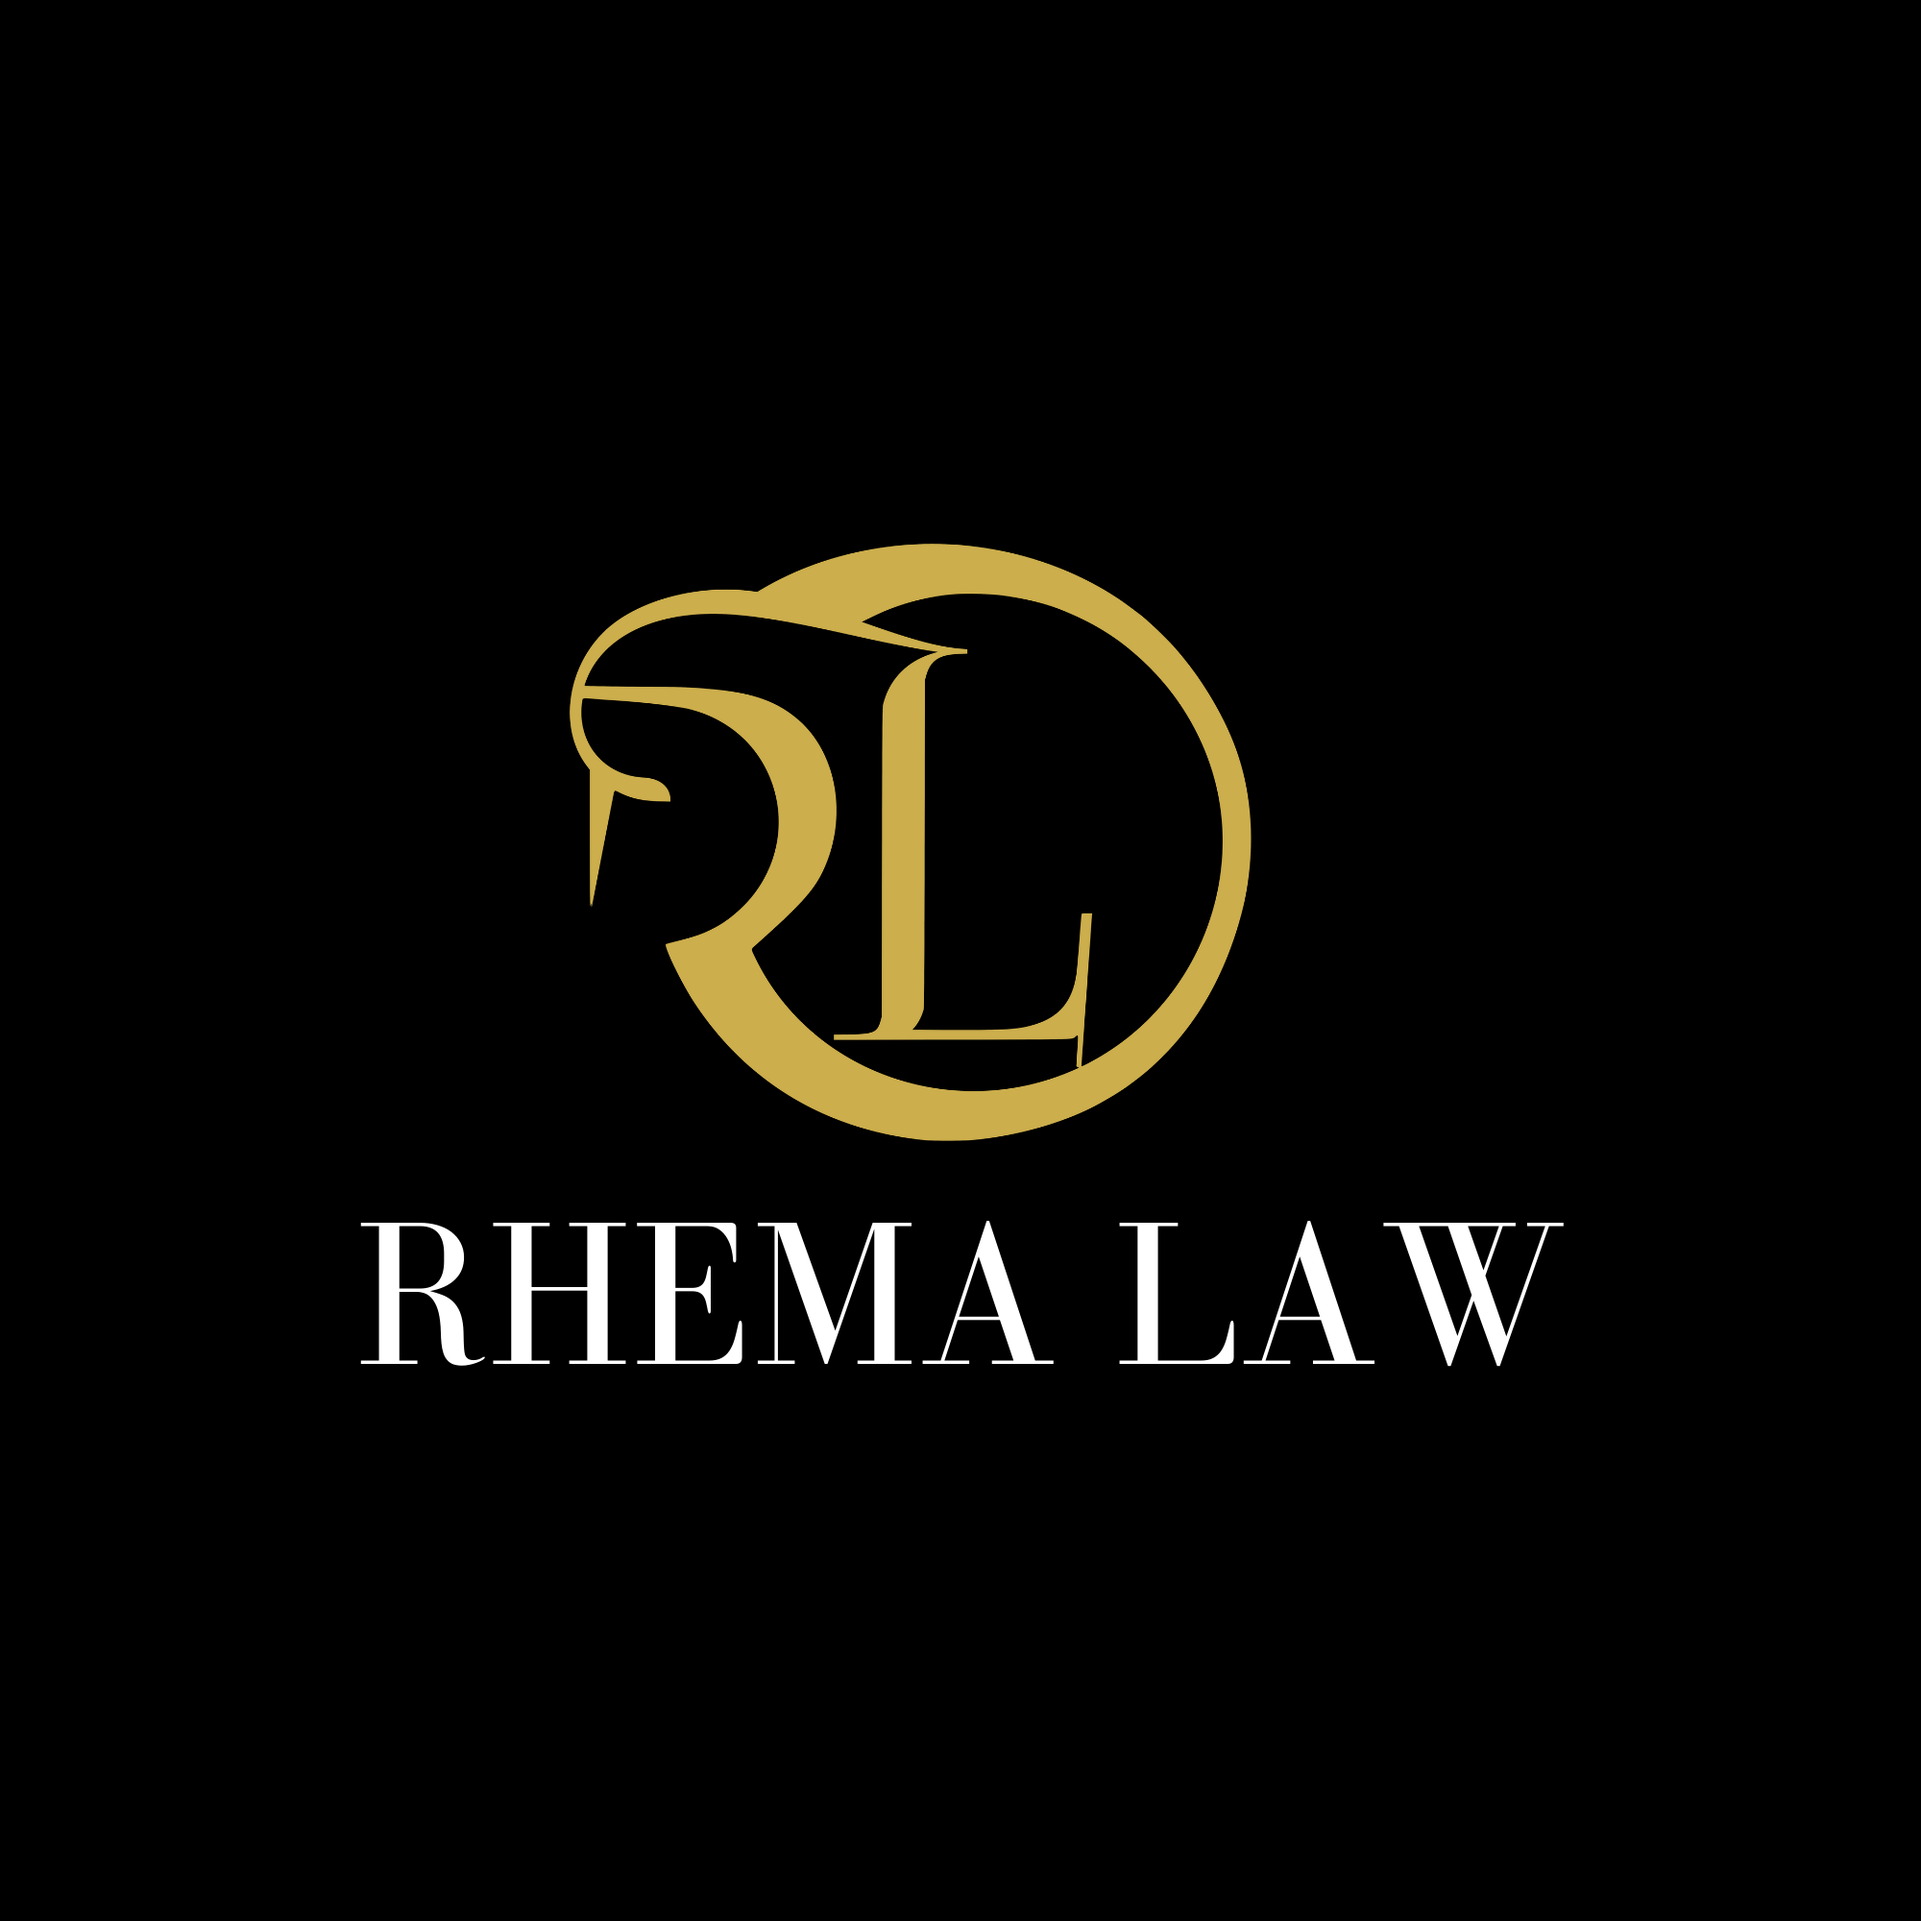
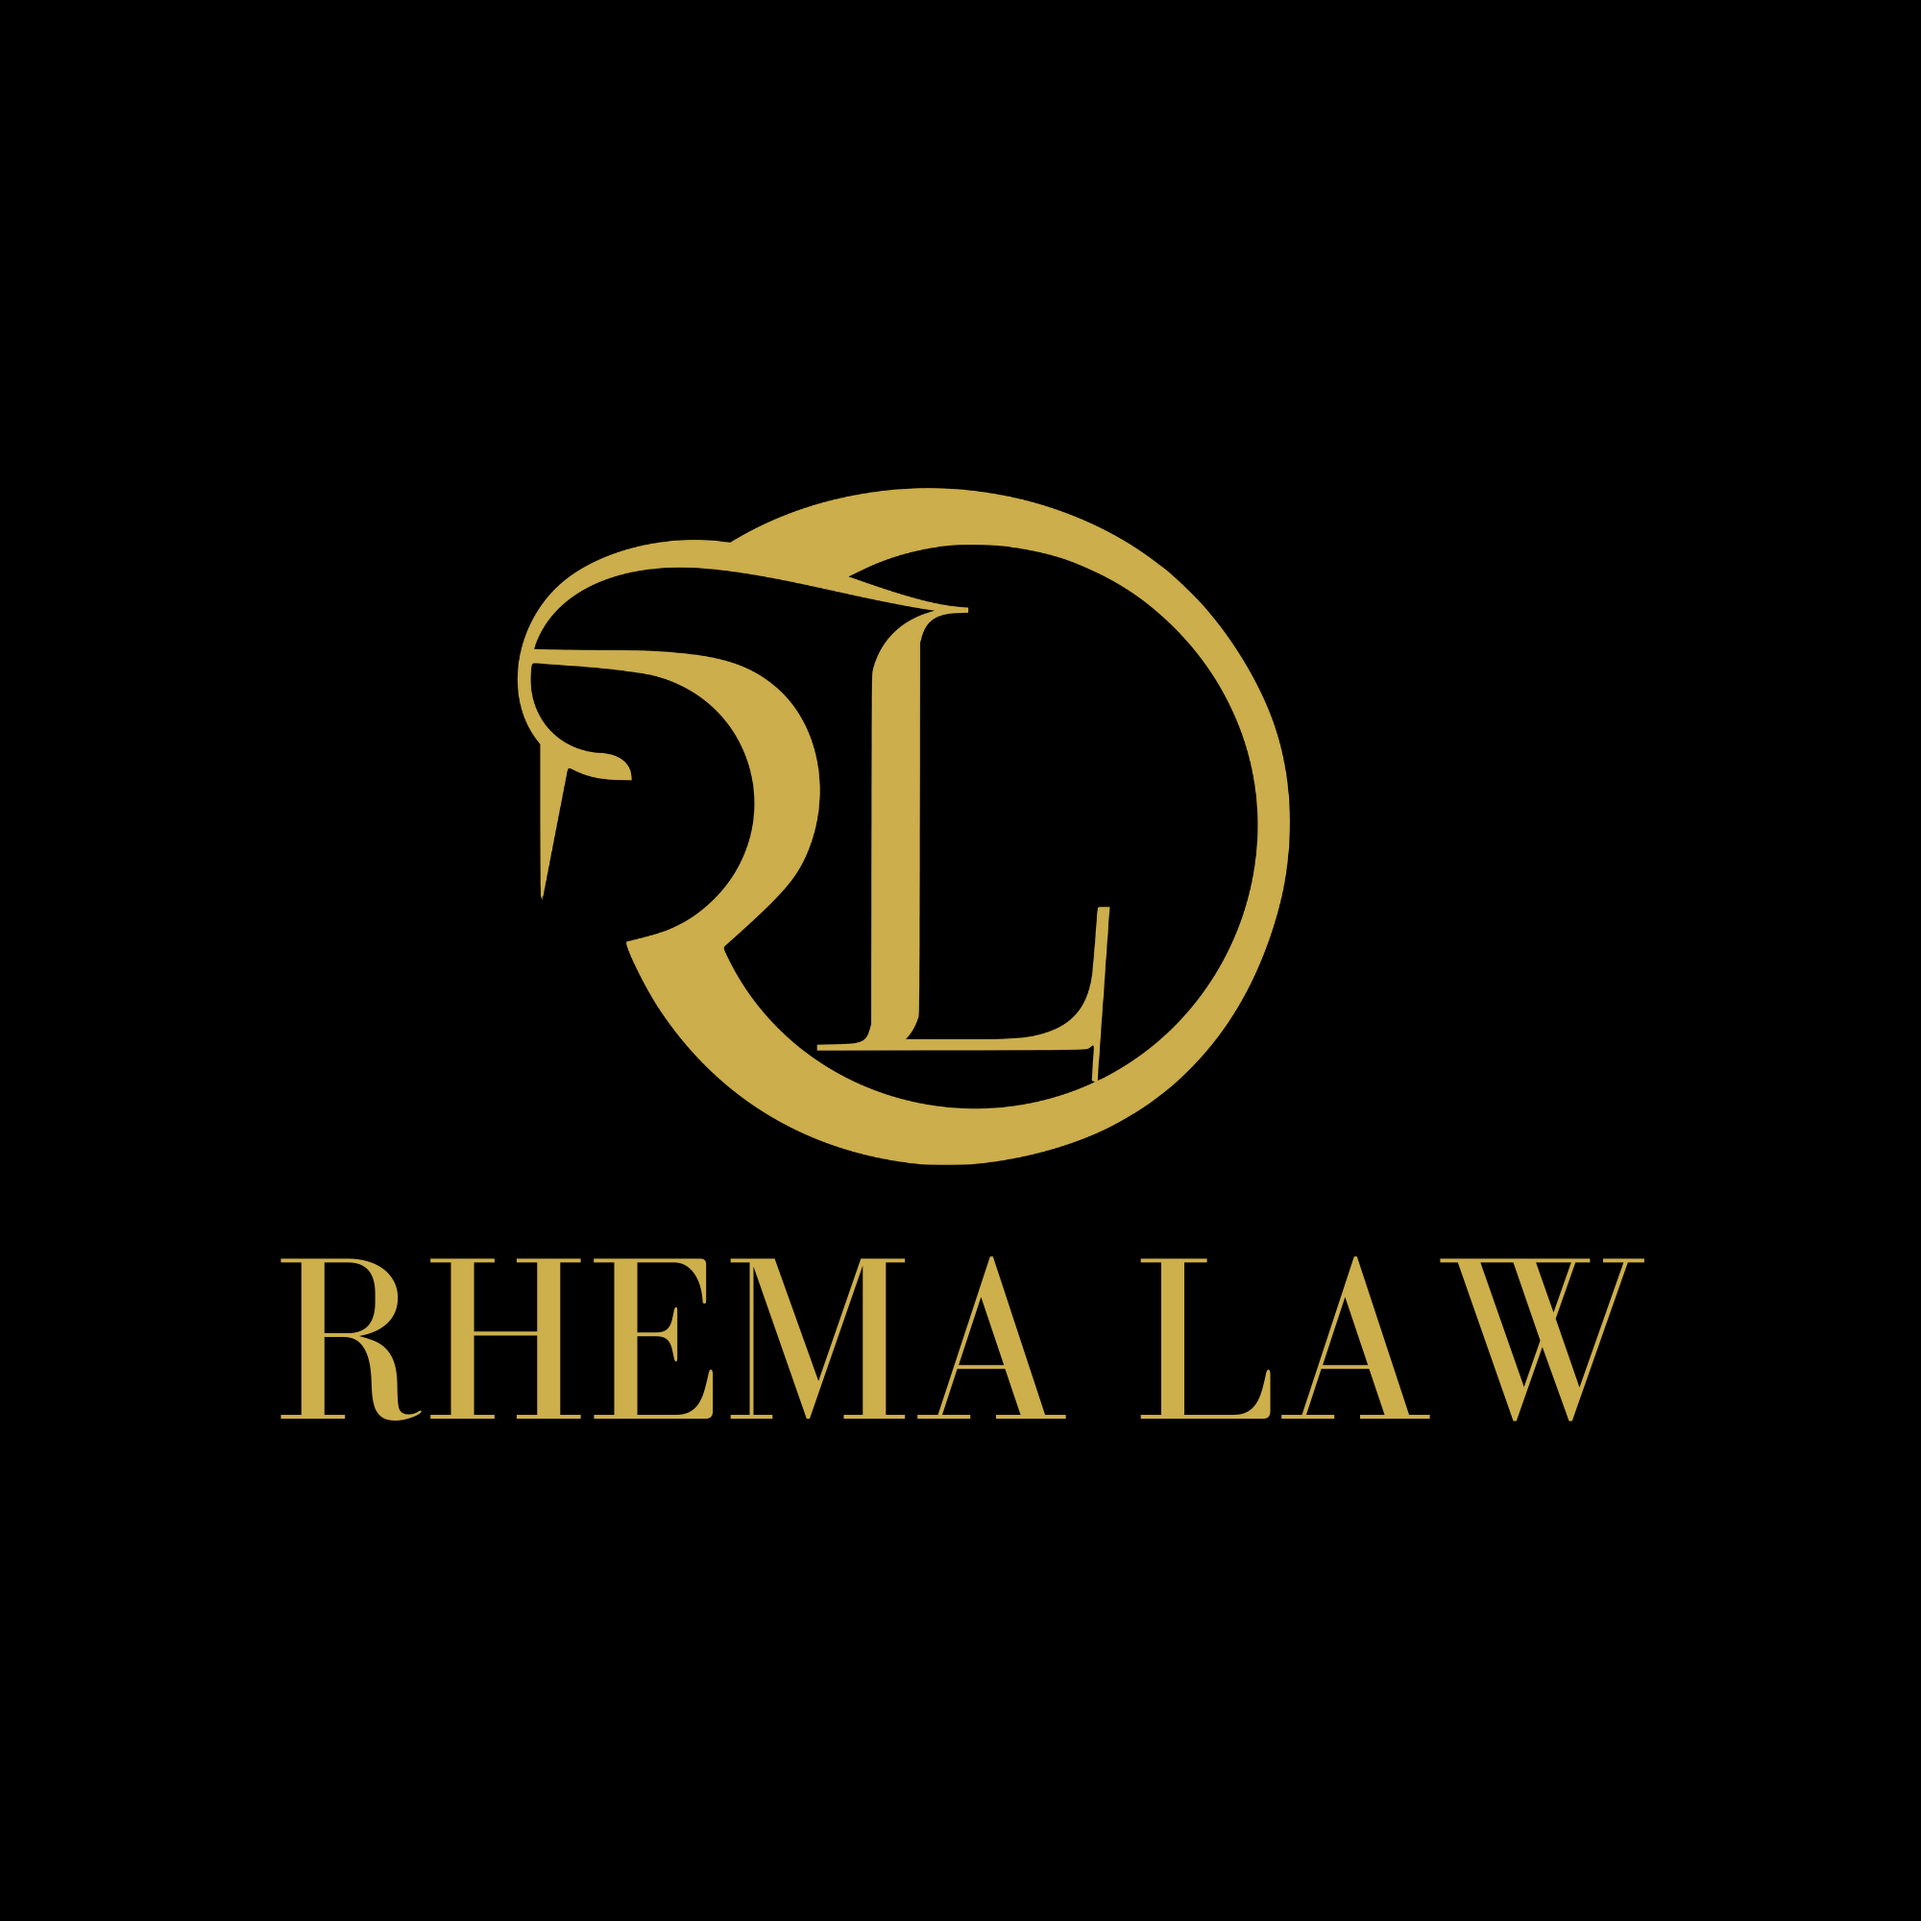
minor changes

Changed region(s): [[0.155, 0.248, 0.682, 0.744], [0.589, 0.62, 0.868, 0.744]]

diff --git a/frontend/templates/frontend/index.html b/frontend/templates/frontend/index.html
@@ -5,20 +5,18 @@
 {% endblock %}
 {% block content %}
 
-    <div class="hero is-large is-black w3-black parallax">
-        <div class="hero-body columns bgoverla is-centered">
+    <div class="hero is-medium is-black w3-black">
+        <div class="hero-body columns is-centered">
             <div class="column is-12 w3-padding">
-                <h1 class="w3-center w3-jumbo w3-padding-large w3-hide-small" style="font-weight: 600">
-                    {#                    A versatile law firm offering bespoke legal services#}
-                    <br>
-                    <br>
-                    <br>
+                <div class="w3-center">
+                    <img src="{% static 'images/rl.svg' %}" alt="" style="height: 200px">
+                </div>
+                <h1 class="w3-center w3-text-yellow w3-jumbo bodoni is-uppercase">Rhema Law</h1>
+                <h1 class="w3-center w3-xxxlarge w3-padding w3-hide-small bodoni">
+                    A versatile law firm offering bespoke legal services
                 </h1>
-                <h1 class="w3-center w3-xxlarge w3-padding-large w3-hide-large w3-hide-medium" style="font-weight: 600">
-                    {#                    A versatile law firm offering bespoke legal services#}
-                    <br>
-                    <br>
-                    <br>
+                <h1 class="w3-center w3-xxlarge w3-padding w3-hide-large w3-hide-medium">
+                    A versatile law firm offering bespoke legal services
                 </h1>
             </div>
         </div>

diff --git a/frontend/templates/frontend/base.html b/frontend/templates/frontend/base.html
@@ -67,6 +67,11 @@
             background: url("{% static 'images/rl-black.png' %}") no-repeat fixed center;
             background-size: 1000px;
         }
+
+        .hero-parallax {
+            background: url("{% static 'images/rl-hero.png' %}") no-repeat fixed center;
+            background-size: cover;
+        }
     </style>
     {% block extra_head %}
 
